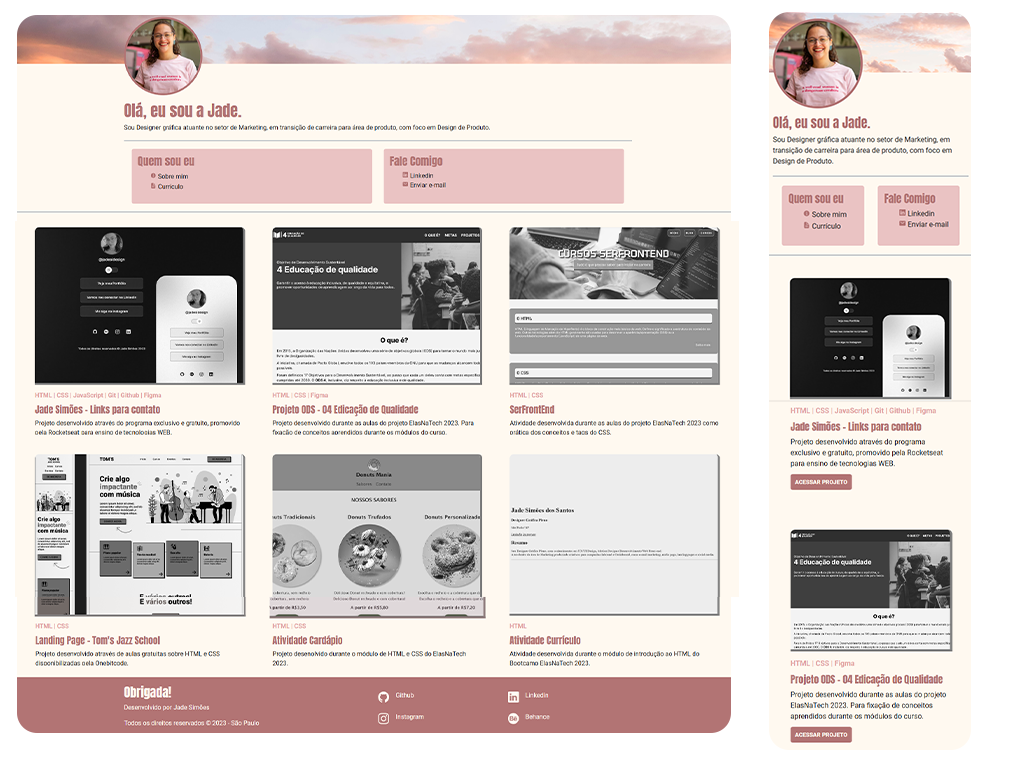
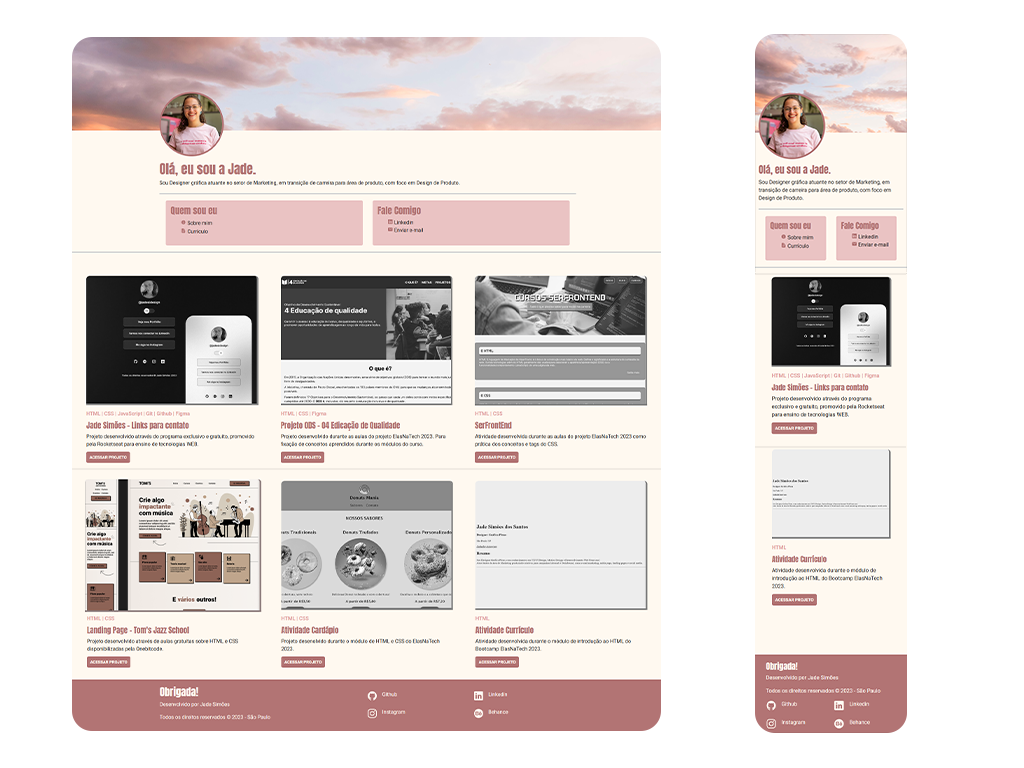
adjustment the card height

diff --git a/style.css b/style.css
@@ -107,7 +107,7 @@ body {
 .cards {
     display: block;
     padding: 20px;
-    height: 550px;
+    height: 610px;
 }
 
 .wrapper {

diff --git a/README.md b/README.md
@@ -4,7 +4,7 @@
 
 Projeto final do Bootcamp ElasNaTech 2023, como compilado de diversos projetos desenvolvidos ao longo das aulas.
 
-[🔗 Clique aqui para acessar](https://jadesi.github.io/portfolio-2023/)
+[🔗 Clique aqui para acessar o projeto](https://jadesi.github.io/portfolio-2023/)
 
 ## ⚒ Tecnologias
 
